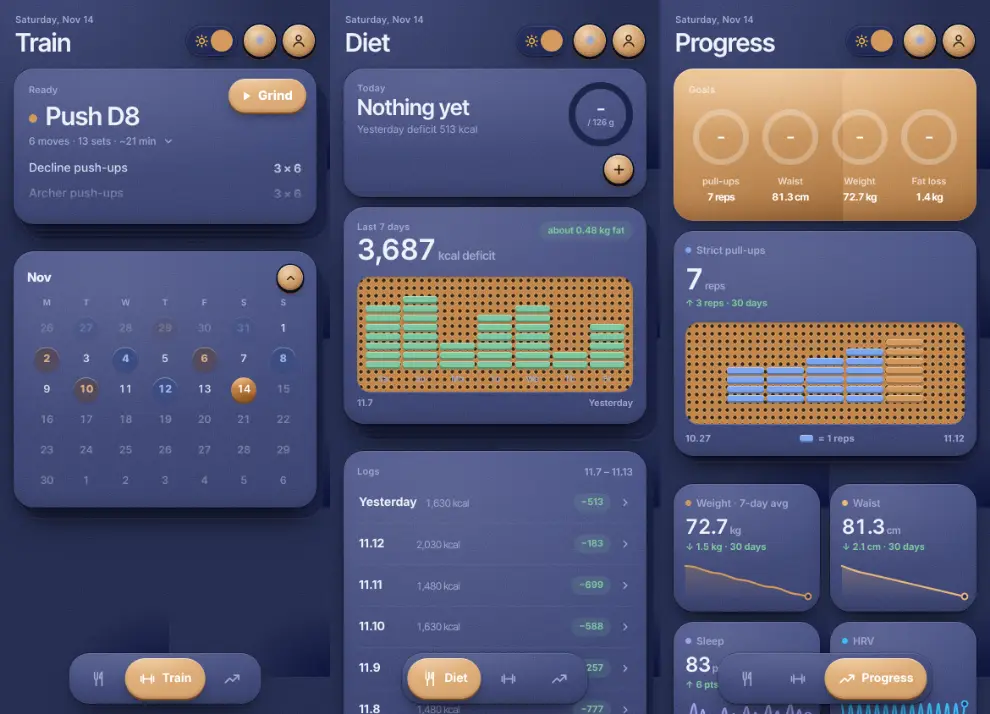
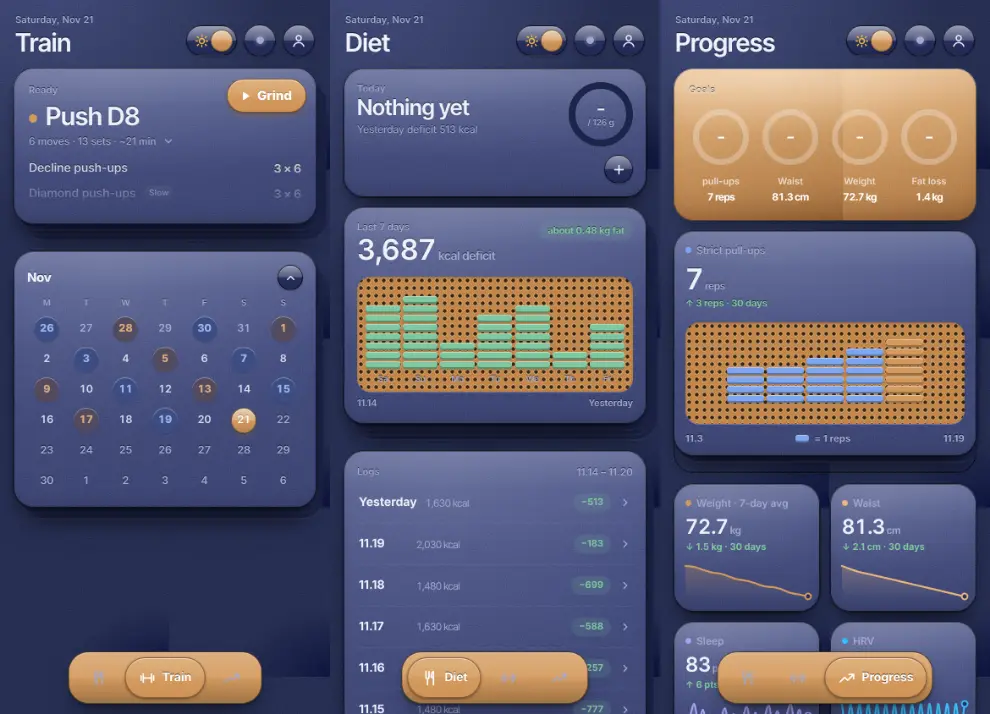
iOS 6 gloss for warm sand, candy plastic, buttery plastic, frosted cobalt, cream enamel, rose ceramic and clay: glossy two-tone keys, sheen over each theme's own cards, iOS 6 switches; theme thumbnails reshot
Claude-Session: https://claude.ai/code/session_015uTD2PhWcYHBYc8Si5P4yd

diff --git a/css/p1.css b/css/p1.css
@@ -1654,3 +1654,46 @@ body.has-mini.mini-big .wrap{padding-bottom:calc(318px + env(safe-area-inset-bot
 /* small round keys keep their look but get a 44 px touch area (WCAG target size) */
 :where(.mini,.fsreset,.f-sets i,.icopt){position:relative}
 :where(.mini,.fsreset,.f-sets i)::after{content:"";position:absolute;inset:min(0px,calc((100% - 44px) / 2));border-radius:inherit}
+/* ---------- iOS 6 gloss: the glassy, lit-from-above look shared by the themes marked gloss:1 in THEMES
+   (warm sand, candy plastic, buttery plastic, frosted cobalt, cream enamel, rose ceramic, clay). Every key and
+   surface keeps its theme's colours but gets the classic sheen: a bright top half cut by a hard line at the
+   middle, a white hairline along the top edge, a darker rim and embossed text. Doubled attribute so it wins
+   over each theme's own material rules ---------- */
+:root[data-gloss]{--g-top:rgba(255,255,255,.62);--g-mid:rgba(255,255,255,.16);--g-edge:rgba(0,0,0,.16);--g-inset:rgba(255,255,255,.92);--g-emb:0 1px 0 rgba(255,255,255,.55);--g-btn:var(--ac);
+  --g-sheen:linear-gradient(180deg,var(--g-top) 0%,var(--g-mid) 49%,rgba(255,255,255,0) 50.5%,rgba(0,0,0,.05) 100%);
+  --g-soft:linear-gradient(180deg,var(--g-top) 0%,rgba(255,255,255,.12) 42%,rgba(255,255,255,0) 100%);
+  --g-key:linear-gradient(180deg,rgba(255,255,255,.55) 0%,rgba(255,255,255,.2) 49%,rgba(255,255,255,0) 50.5%,rgba(0,0,0,.12) 100%)}
+:root[data-gloss][data-mode="dark"]{--g-top:rgba(255,255,255,.18);--g-mid:rgba(255,255,255,.05);--g-edge:rgba(0,0,0,.65);--g-inset:rgba(255,255,255,.16);--g-emb:0 -1px 0 rgba(0,0,0,.6)}
+:root[data-gloss][data-theme="toy"]{--g-btn:var(--red,var(--ac))}
+:root[data-gloss][data-gloss] body{text-shadow:var(--g-emb)}
+/* surfaces: each theme keeps its own card; the sheen lies on top of it as a layer under the content */
+:root[data-gloss][data-gloss] :is(.card,.tile,.dark,.sheet .panel,.mask .sheet,.mini-pl){isolation:isolate}
+:root[data-gloss][data-gloss] :is(.card,.tile,.dark,.sheet .panel,.mask .sheet,.mini-pl)::before{content:"";position:absolute;inset:0;border-radius:inherit;pointer-events:none;z-index:-1;
+  background:linear-gradient(180deg,var(--g-top) 0,var(--g-mid) 46px,rgba(255,255,255,0) 120px);box-shadow:inset 0 1px 0 var(--g-inset),inset 0 0 0 1px var(--g-edge)}
+:root[data-gloss][data-gloss] .dark:not(.hero)::before,:root[data-gloss][data-mode="dark"][data-gloss] .hero::before{background:linear-gradient(180deg,rgba(255,255,255,.2) 0,rgba(255,255,255,.06) 46px,rgba(255,255,255,0) 120px);box-shadow:inset 0 1px 0 rgba(255,255,255,.26),inset 0 0 0 1px rgba(0,0,0,.45)}
+:root[data-gloss][data-gloss] :is(.opt,.thc,.preset,.xitem,.shopc,.badge){background:var(--g-soft),var(--sub);border:1px solid var(--g-edge);box-shadow:inset 0 1px 0 var(--g-inset),0 1px 1px rgba(0,0,0,.08)}
+:root[data-gloss][data-gloss] :is(.opt[aria-pressed="true"],.thc.on,.preset.on){border-color:color-mix(in srgb,var(--g-btn) 70%,#000);box-shadow:inset 0 1px 0 var(--g-inset),0 0 0 2px color-mix(in srgb,var(--g-btn) 45%,transparent)}
+/* accent keys: the classic two-tone glossy button */
+:root[data-gloss][data-gloss] :is(.btn:not(.ghost),.hgo,.pill.ac,.cal .dd.today b,.dd.today b){background:var(--g-key),var(--g-btn);color:var(--on-ac);border:1px solid color-mix(in srgb,var(--g-btn) 62%,#000);
+  box-shadow:inset 0 1px 0 rgba(255,255,255,.6),0 1px 2px rgba(0,0,0,.35),0 6px 12px -6px color-mix(in srgb,var(--g-btn) 70%,#000);text-shadow:0 -1px 0 rgba(0,0,0,.28)}
+:root[data-gloss][data-gloss] .dock .pc{background:var(--g-key),var(--g-btn);border:1px solid color-mix(in srgb,var(--g-btn) 62%,#000);box-shadow:inset 0 1px 0 rgba(255,255,255,.55),0 1px 3px rgba(0,0,0,.45)}
+/* neutral keys: glassy orbs and capsules */
+:root[data-gloss][data-gloss] :is(.circ,.mini,.fsreset,.btn.ghost,.modesw,.f-sets i:not(.cur):not(.dn):not(.add)){background:var(--g-key),var(--card);color:var(--ink);border:1px solid var(--g-edge);
+  box-shadow:inset 0 1px 0 var(--g-inset),0 1px 2px rgba(0,0,0,.3)}
+:root[data-gloss][data-gloss] .modesw .kn{background:var(--g-key),var(--g-btn);border:1px solid color-mix(in srgb,var(--g-btn) 62%,#000);box-shadow:inset 0 1px 0 rgba(255,255,255,.6),0 1px 2px rgba(0,0,0,.4)}
+:root[data-gloss][data-gloss] .f-sets i.cur{background:var(--g-key),var(--g-btn);color:var(--on-ac);border:1px solid color-mix(in srgb,var(--g-btn) 62%,#000);text-shadow:0 -1px 0 rgba(0,0,0,.25)}
+/* the big tick: a domed glass button with a bright crescent on top */
+:root[data-gloss][data-gloss] .tickb:not(.done){background:radial-gradient(ellipse 72% 42% at 50% 20%,rgba(255,255,255,.8),rgba(255,255,255,.12) 70%,rgba(255,255,255,0) 72%),radial-gradient(circle at 50% 80%,color-mix(in srgb,var(--g-btn) 75%,#fff) 0%,var(--g-btn) 55%,color-mix(in srgb,var(--g-btn) 70%,#000) 100%);
+  color:var(--on-ac);border:1px solid color-mix(in srgb,var(--g-btn) 55%,#000);box-shadow:inset 0 -3px 6px rgba(0,0,0,.25),0 2px 3px rgba(0,0,0,.35),0 16px 28px -12px color-mix(in srgb,var(--g-btn) 70%,#000)}
+/* the dock: a glossy tab bar */
+:root[data-gloss][data-gloss] .dock{background:linear-gradient(180deg,rgba(255,255,255,.22) 0%,rgba(255,255,255,.07) 49%,rgba(255,255,255,0) 50.5%,rgba(0,0,0,.25) 100%),var(--dark-solid);border:1px solid rgba(0,0,0,.6);
+  box-shadow:inset 0 1px 0 rgba(255,255,255,.3),0 2px 4px rgba(0,0,0,.35),0 16px 30px -12px rgba(0,0,0,.55)}
+:root[data-gloss][data-gloss] .dock button{text-shadow:0 -1px 0 rgba(0,0,0,.6)}
+/* switches and segmented controls, iOS 6 style: a sunken track, a white glass knob */
+:root[data-gloss][data-gloss] .opt .sw{width:52px;height:30px;border-radius:999px;background:linear-gradient(180deg,#C9C9C9,#F4F4F4);box-shadow:inset 0 2px 3px rgba(0,0,0,.35),0 1px 0 var(--g-inset);border:1px solid rgba(0,0,0,.25);padding:0}
+:root[data-gloss][data-gloss] .opt .sw::before{content:none}
+:root[data-gloss][data-gloss] .opt[aria-checked="true"] .sw{background:var(--g-key),var(--g-btn);box-shadow:inset 0 2px 3px rgba(0,0,0,.3),0 1px 0 var(--g-inset)}
+:root[data-gloss][data-gloss] .opt[aria-checked="true"] .sw::after{transform:translateX(22px)}
+:root[data-gloss][data-gloss] .opt .sw::after{top:1px;left:1px;width:26px;height:26px;border-radius:50%;background:linear-gradient(180deg,#FFFFFF 0%,#F2F2F2 50%,#DADADA 51%,#F6F6F6 100%);border:1px solid rgba(0,0,0,.25);box-shadow:0 1px 2px rgba(0,0,0,.35)}
+:root[data-gloss][data-gloss] .seg{background:var(--g-key),var(--sub);border:1px solid var(--g-edge);box-shadow:inset 0 1px 0 var(--g-inset),0 1px 1px rgba(0,0,0,.1)}
+:root[data-gloss][data-gloss] .seg button[aria-pressed="true"]{background:var(--g-key),var(--g-btn);color:var(--on-ac);box-shadow:inset 0 1px 2px rgba(0,0,0,.35);text-shadow:0 -1px 0 rgba(0,0,0,.28)}

diff --git a/index.html b/index.html
@@ -10,9 +10,9 @@
 <link rel="manifest" href="manifest.json?v=5">
 <link rel="apple-touch-icon" href="apple-touch-icon.png?v=5">
 <link rel="icon" href="icon-192.png?v=5" type="image/png">
-<script src="js/early.js?v=98c77756"></script>
+<script src="js/early.js?v=3b06e9bc"></script>
 <link rel="preload" href="fonts/geist-wght.woff2" as="font" type="font/woff2" crossorigin>
-<link rel="stylesheet" href="css/p1.css?v=98c77756"></head><body>
+<link rel="stylesheet" href="css/p1.css?v=3b06e9bc"></head><body>
 <div class="wrap">
   <header class="top">
     <div><p class="eyebrow" id="today"></p><h1 id="title">训练</h1></div>
@@ -40,21 +40,21 @@
 <div class="toast" id="toast" role="status"></div>
 <span id="ver" hidden>v1.66a</span>
 
-<script defer src="js/hant.js?v=98c77756"></script>
-<script defer src="js/core.js?v=98c77756"></script>
-<script defer src="js/diet.js?v=98c77756"></script>
-<script defer src="js/confetti.js?v=98c77756"></script>
-<script defer src="js/sheetcore.js?v=98c77756"></script>
-<script defer src="js/backupcore.js?v=98c77756"></script>
-<script defer src="js/p1data.js?v=98c77756"></script>
-<script defer src="js/p1fx.js?v=98c77756"></script>
-<script defer src="js/p1stack.js?v=98c77756"></script>
-<script defer src="js/coros.js?v=98c77756"></script>
-<script defer src="js/engine.js?v=98c77756"></script>
-<script defer src="js/scratch.js?v=98c77756"></script>
-<script defer src="js/p1.js?v=98c77756"></script>
-<script defer src="js/p1settings.js?v=98c77756"></script>
-<script defer src="js/p1day.js?v=98c77756"></script>
-<script defer src="js/p1weather.js?v=98c77756"></script>
-<script defer src="js/p1music.js?v=98c77756"></script>
+<script defer src="js/hant.js?v=3b06e9bc"></script>
+<script defer src="js/core.js?v=3b06e9bc"></script>
+<script defer src="js/diet.js?v=3b06e9bc"></script>
+<script defer src="js/confetti.js?v=3b06e9bc"></script>
+<script defer src="js/sheetcore.js?v=3b06e9bc"></script>
+<script defer src="js/backupcore.js?v=3b06e9bc"></script>
+<script defer src="js/p1data.js?v=3b06e9bc"></script>
+<script defer src="js/p1fx.js?v=3b06e9bc"></script>
+<script defer src="js/p1stack.js?v=3b06e9bc"></script>
+<script defer src="js/coros.js?v=3b06e9bc"></script>
+<script defer src="js/engine.js?v=3b06e9bc"></script>
+<script defer src="js/scratch.js?v=3b06e9bc"></script>
+<script defer src="js/p1.js?v=3b06e9bc"></script>
+<script defer src="js/p1settings.js?v=3b06e9bc"></script>
+<script defer src="js/p1day.js?v=3b06e9bc"></script>
+<script defer src="js/p1weather.js?v=3b06e9bc"></script>
+<script defer src="js/p1music.js?v=3b06e9bc"></script>
 </body></html>

diff --git a/docs/catalog/index.html b/docs/catalog/index.html
@@ -71,6 +71,7 @@ ol li{margin:4px 0}
     <li>在 <code>css/p1.css</code> 写 <code>:root[data-theme="新id"]</code> 的变量：<code>--bg --card --line --lit --sub --seg --dark --dark-solid --dark-line --track --ink --muted --ac --on-ac --ac-soft --ac-text --st1 --st2 --push --pull --third --good --bad --sleep --shadow</code>，需要的话加 <code>--disp --num --body</code> 字体。两版的再写一份 <code>[data-mode="dark"]</code>。</li>
     <li>照下面七类逐个覆盖：卡片和面板（<code>.card .tile .hero.dark .dark .sheet .panel .dock</code>）、确认类、开关类、调节类、选择类、导航类、音乐，最后是 <code>.bricks .bks i</code> 和 <code>.knobw .knob</code>。在这页切到新主题，一类一类看。</li>
     <li>材质颗粒用 <code>img/tex-*.webp</code>（新材质先用 SVG 噪声画好，再渲染成图片放进 <code>img/</code>）；不要用 <code>backdrop-filter</code>，面板一律不透明。</li>
+    <li>想要 iOS 6 的玻璃反光质感，在 <code>THEMES</code> 里加 <code>gloss:1</code>（并在 <code>board.html</code> 的列表里登记）：按键上半截亮、中间一道硬分界，卡片顶边一线白色高光，颜色仍是主题自己的。</li>
     <li>要有自己的庆祝和音效，写进 <code>js/p1fx.js</code> 的 <code>THEME_FX</code> 和 <code>SFX_TH</code>。</li>
   </ol>
 </div>

diff --git a/docs/catalog/board.html b/docs/catalog/board.html
@@ -8,7 +8,7 @@
 /* ?t=theme&m=light|dark&only=component-id ; CSS path differs between the repo (../../css) and the published page (css) */
 (function(){var q=new URLSearchParams(location.search),de=document.documentElement,t=q.get("t")||"aurora",m=q.get("m")||"light";
   var FIX={tm4:"dark",skeuo:"light",braun:"light",clay:"light",md:"light",nikon:"dark"};
-  de.dataset.theme=t;de.dataset.mode=FIX[t]||m;if(FIX[t])de.dataset.fixed="";
+  de.dataset.theme=t;de.dataset.mode=FIX[t]||m;if(FIX[t])de.dataset.fixed="";if(["ember","toy","pocket","tm4","braun","dyson","clay"].includes(t))de.dataset.gloss="";
   de.style.setProperty("--lx","30%");de.style.setProperty("--ly","10%");de.style.setProperty("--rot","0deg");de.style.setProperty("--rt",".5");
   document.write('<link rel="stylesheet" href="../../css/p1.css">');window.BASE="../../";
   if(q.get("only"))document.write('<style>.grp,.spec{display:none!important}.spec[data-c="'+q.get("only").replace(/[^\w-]/g,"")+'"]{display:grid!important;margin:0!important}.grp:has(.spec[data-c="'+q.get("only").replace(/[^\w-]/g,"")+'"]){display:block!important;margin:0!important}.grp>h2,.spec>.lab{display:none!important}body{padding:14px!important}</style>');})();

diff --git a/docs/PRODUCT.md b/docs/PRODUCT.md
@@ -62,7 +62,7 @@
 - **主题盲盒：** G 分商店顶上，余额右边是 App 图标那只信封，隔几秒轻轻晃一下。点它问「花 100 G 开一个主题盲盒？」，付了之后弹出刮刮卡（Ovio 的 Scratch to Reveal，`js/scratch.js`），手指刮开涂层，刮过一半剩下的自己掉；下面是随机抽到的、你还没有的主题（色板 + 名字），揭开时放庆祝，下面出现「好」和「换上」。给过的主题不会再给；所有主题都有了，信封变灰，点了只提示已集齐。刮刮卡的样子跟着当前主题：草木、暖砂、喷砂铝、白瓷、粉瓷是 minimal（磨砂涂层），糖果塑料、黏土是 toy（撒糖粒的蓝橡胶，揭开时彩纸飞出），钴蓝、冰蓝拉丝、奶油塑料是 retro（绿色雪花噪点，一格一格擦），拉丝铝、米白烤漆、黑皮压纹是 craft（银色锡箔票，用硬币刮的毛边）。
 - **G 币和 G 分商店：** G 的图标是当下主题的圆形按钮，中间一个金色的 G，金光一呼一吸；商店叫「G 分商店」（谐音「积分」），英文 barGain store。
 - **图标：** 一只纸信封，里面插着一张刮刮卡（银色待刮的涂层），信封左下角压印一个图案。信封的纸色跟着主题走：每个主题、每个明暗版本都有自己颜色的一套（草木亮色是原稿的鼠尾草绿，钴蓝是钴蓝，粉瓷是粉，等等），纸的明暗、纹理、压印都保留。图案由用户在 设定 › 外观 › App 图标 里选：心、星、十字、鸟、猫、狗、兔（存在 `tracktor-p1-icon`）。换主题、切明暗或换图案时，网页的图标、iPhone 图标和 manifest 一起指到对应的那一套（`js/p1.js` 的 `iconApply`；`index.html` 开头的小脚本从 `tracktor-icon` 提前设好，这样安装时拿到的就是选好的）。主屏幕上已经装好的图标不会马上变：安卓一般过一两天自己更新，iPhone 要删掉重新添加（写在面板的「i」里）。图片是 `icons/<主题>-<light|dark>-<图案>.webp`（圆角方块）、`-m.webp`（可遮罩：方块缩小放在同色的深色底上）、`-a.png`（iPhone，180 px 满版）和 `.json`（那一套的 manifest），由 `tools/icons.py` 从 `tools/icon-src/` 的七张原稿染色生成（裁掉原稿的浅色边、重新做圆角）；仓库根目录的 `icon-*.png`、`apple-touch-icon.png` 是默认的草木绿爱心。主题盲盒就是这个图标：刮刮卡先藏在信封里，能开时卡片升出来，停在图标的样子。
-- **主题：** 多数主题有亮、暗两版，顶栏同步按钮左边是明暗开关（点一下切换，长按进主题页，也就是 G 分商店的主题区）；只有一种样子的主题没有这个开关，设定 › 外观里也不显示「跟随手机 / 亮 / 暗」，主题在 G 分商店换。G 分商店的主题列表只显示已经拥有的主题，没解锁的一个都不露，保持神秘；只有主题盲盒右上角一个数字，写着还有几套没解锁，新主题只从盲盒里开。盲盒就是 App 图标本身，只是信封封着：同样的蓝底、颗粒、玫红信封和左下角的心，卡片和 G 币藏在里面，上盖合着：G 不够 100 或主题都集齐了，点它只抖一下、不打开；能开时点它，先轻轻一按，上盖沿折痕往后翻开、内侧翻到卡片后面，卡片带着 G 币从信封里升出来、回弹停住，正好是 App 图标，接着进刮刮卡（面板没有标题）；能开时它隔几秒轻轻晃一下。刮刮卡穿的是当前主题的颜色和质感（卡片、颗粒、凹槽、强调色，Ovio 的 Scratch to Reveal 只是底子），没有多余的字，只有一条进度线；刮开不到一半，底下只是一团模糊，什么也看不出，这时关掉就算没开盒、不扣 G；刮过一半才扣 100 G、收进主题，奖品从模糊里慢慢清楚：那套主题三个主页面（训练、饮食、进展）的缩略图叠成一小摞（亮暗两版的是六张，名字后面一个彩色日月图标（黄太阳 | 紫月亮）），点它弹出一个不超过半个屏幕的面板，左右划或点一下一张张看。下面两个键：「收下」和「使用」。主题列表里每个主题也用自己三页的缩略图一小摞来认（当前明暗那一版），亮暗两版的带日月图标，不再用色块条。缩略图是 `img/th/<主题>-<light|dark>.webp`（三页并排），用 `tools/thumbs.js` 拿假数据在无头浏览器里截，一律是英文界面，三种语言共用一套。草木 · 极光免费（亮色石膏灰配柔和的鼠尾草绿，暗色深海黑配极光青）；暖砂 · 流金 60 G（亮色燕麦石灰配陶土橙，暗色黑曜石配落日流金）；玩具 90 G：照开源的 Ovio UI「toy」风格（MIT），点阵底板、塑料卡片带唇边、红蓝黄绿原色按键按下会沉下去、缺口柱子是一块块积木、日历上练过的日子是彩色塑料钉、目标是一块蓝色塑料板、数字用等宽字，打勾是红色街机按钮，彩带换成原色方块和圆点；亮色是奶油色塑料配红蓝黄绿，暗色是巨型机器人配色的夜间玩具：深紫底板和紫色塑料卡片，荧光青柠绿是主色，橙色是第二色（缺口 / 盈余、好 / 坏也是绿 / 橙），目标是一块紫色塑料板。立体感：顶栏的同步按钮照 Ovio 的 pull to sync 做成凹槽里的塑料滑块（拖到最右松手同步、弹簧弹回，轻点也同步；中间小灯平时黄、同步中闪、完成绿），头像是圆鼓鼓的蓝色塑料按钮；卡路里柱子照 Ovio 的 star history 摞成 8px 的小积木，每块底下一道深色唇边、顶上一线高光；卡片有亮的上沿和 7px 唇边，厚度更明显，图表的线是带投影的塑料管，目标圈有投影。声音也换成玩具声：打勾「啵」、做完一个动作木琴琶音、休息结束布谷鸟、练完玩具小号、点按塑料咔哒，烟花是卡通「砰」加一串弹珠声。亮色版的颜色都压低了饱和度，不刺眼，大约是一周练够三天赚的。另有四套只有一种样子的触感主题：钴蓝磨砂 120 G（暗：蓝色阳极铝面板，卡片带斜面高光，按钮是圆柱键帽，底板和卡路里柱子是点阵屏，线和指示灯有白蓝辉光，打勾是高圆柱旋钮）；拉丝铝 · 霓虹 120 G（亮：拉丝铝卡片配顶光，按钮是黑色阳极件上的青色霓虹字，小按钮是锥纹金属旋钮，打勾是黑表圈白表盘，目标板是黑色，柱子是喇叭网孔、今天那根亮青色）；米白烤漆 90 G（亮：米白机身，方键、凹碟、柿橙圆点，底栏是黑色键槽里的米白方键，顶栏按钮是黑座圆顶、头像是橄榄绿，打勾是滚花拨盘）；黏土 · 薄荷 90 G（亮：网格纸底，白色积木卡片带往左下的斜投影，按钮是薄荷积木，目标板是薄荷色，打勾做完变成发光的薄荷圆环）。这四套的光影按同一套做法：每套一个固定光源方向；每种材质有自己的颗粒（塑料细颗粒、拉丝铝的单向拉丝、黏土的哑光粉感）；卡片阴影分接触阴影、中距和远距三层，加上边缘高光和底部暗部；底板有顶光光池和四周暗角；高光跟着手机倾斜移动，金属旋钮的反光和滚花拨盘跟着转，手拿稳后慢慢回到原位（电脑上跟着鼠标）。系统开了「减少动态效果」就不动。玩具主题保持 Ovio 原版的卡通效果，不开光追（试过让按键侧面跟着倾斜，不自然又拖慢，去掉了）。每套主题的拉丁字母和数字用自己的字体（都放在网站里，离线也能用）：拉丝铝 Michroma（宽体仪表字，标题大写）、钴蓝 Doto（点阵字，带辉光；中文配 Fusion Pixel 像素字的子集，改名 bG Pixel SC，只含 App 用到的字和 3755 个常用字，标题、动作名、单位和数字一样是像素的）、米白 Inter Tight（瑞士风）、黏土 Nunito（圆润）、暖砂 Fraunces（温润的衬线），草木 · 极光用 Geist、标题和数字字重更轻、小标题大写加字距，偏冷淡。开关和分段按钮也各按主题做成不同的硬件：拉丝铝是凹槽里的金属球拨杆和走带键排、钴蓝是推子和键帽排、米白是黑槽里的米白拨杆和黑框方键排（选中的键下面一个柿橙点）、黏土是积木拨块。奶油塑料 120 G（亮、暗两版，跟着倾斜打光）：油润的半哑光塑料机身，亮色是暖灰机身配奶油色和藕粉色按键，暗色是黑色机身配橙色和朱红按键；训练卡和目标卡是嵌在边框里的点阵屏（标题和专注页的大数字用点阵字），按钮是带凹碟的方键，圆钮是旋钮，开关是小方槽里的圆按钮（打开时亮红灯），柱子是喇叭网孔，日历今天是红色指示灯。另有五套材质主题：冰蓝拉丝 120 G（固定亮色：冰蓝拉丝阳极铝机身，训练卡、目标卡和积木图是嵌在黑框里的绿灰色段码液晶，数字用液晶等宽字，小键是黑色橡胶键，开练是橙色播放键，打勾是银色拉丝转盘套橙圈，图标按钮是金属钮）；黑皮压纹 120 G（固定暗色：真的有凹凸的黑色压纹蒙皮，训练卡左边一道红色饰条，按钮是镁合金件，开练是红色，旋钮和小按钮是滚花拨盘，打勾是带银圈的快门键）；粉瓷 · 铜蓝 120 G（亮、暗两版，照 Dyson 两款吹风机的配色：亮是奶白陶瓷机身配玫瑰金属色风筒、淡紫灰滤网和旋纹按钮，底色是柔和的粉；暗是普鲁士蓝哑光机身配金铜风筒和铜色滤网、铜色旋纹按钮；两版共有：细颗粒的阳极氧化质感，按键和目标板是金属色，小圆钮是带深色边、微微凸起看得到厚度的旋纹金属钮，积木图和拨轮用穿孔滤网的纹样，打勾像正对着的风嘴，中间深色风口外一圈透明环；跟着光追有高光）；钴蓝的按钮和卡片是同一种平面斜边材质，不再是圆鼓鼓的键帽；喷砂铝 120 G（亮、暗两版：银色 / 深空灰的喷砂铝，钻石切边高光，按钮是黑色键帽，训练卡和目标卡像黑色屏幕嵌在边框里，开练是蓝色，打勾是带金属圈的指纹键）；白瓷 120 G（亮、暗两版：没有描边的实心瓷块，背后是柔和的彩色光斑，顶边一线高光、底边透光，下面一道透明的厚度，有一条亮的反光带，选中项是经典的蓝色渐变高亮，目标卡是蓝色背光屏，打勾是点按转盘，中间按钮做完变蓝）。积木柱状图：饮食页的缺口 / 盈余柱子是一块块积木摞成的（这张卡在可以左右划走的卡堆里，所以积木不随手指弹）。进展页的主项是一个两张牌的毛玻璃卡堆，字体和别的数据卡一样（小标签、大数字、涨跌）：第一张是主项最近 12 次的单组最好成绩，第二张是每周总数（训练日、加在训练里的、休息日记的都算，从第一个有记录的周开始、最多 12 周，大数字是总数，下面是本周）。两张都用积木：一块积木是一个整数（1、2、5、10…个，让最高那列不超过 9 块），图下写着「▬ = 5 个」，最高的一列换第二种颜色。画出来时积木一块块掉下来；手指在积木上划过，经过的那一列弹起、轻振一下，右上角浮出那一列的日期和数；积木区域里手指只读数、不翻牌，翻牌在卡片上半部分划，或点后面露出的那张。整个卡堆和别的数据卡一样，长按可以拖动或隐藏，点一下打开完整曲线。旋钮：图表的时间范围（14 天 / 30 天 / 90 天 / 全部）和设定里的语言（简中 / 繁中 / Eng）都是旋钮，标签排在上方的弧线上，可以转、点旋钮跳下一档、或点标签；每套主题的旋钮和积木都是自己的材质。设定 › 外观 › 特效：光追（开关：开是轻微的效果，高光跟着倾斜慢慢移动、每秒最多更新十来次；关掉就不跟倾斜）、天气、两天没练就落灰（两天没有训练或加练，画面开始落灰、泛黄、褪色，分三档：2–4 天、5–7 天、8 天起，四周的做旧斑驳（`img/grunge-1..3.webp`，用噪声画的，不是网上的图）一档比一档往里蔓延，裂纹和划痕也更多；暗色下是浅色的灰；一打勾就从左往右擦干净）、庆祝效果。庆祝效果跟着主题走（每套主题都有自己的，不再用通用烟花；不管东西轻重，每一片发射前都按它自己的重力和阻力算好力度，至少飞到屏幕上方三分之一），声音也换成一整套：草木撒叶子（3–8 月是深浅不一的绿叶，9–2 月是红橙黄褐的秋叶），配玻璃风铃；暖砂飘金箔，配温暖的铃声；粉瓷 · 铜蓝飘小花朵和花瓣（亮版粉和奶白，暗版金铜和奶白带一点淡蓝），先有一阵风声；喷砂铝和白瓷是一闪一闪的四角星光，配一声干净的「叮」；冰蓝拉丝撒一把小 MD 碟（半透明彩色外壳，能看到里面的光盘和滑盖，标签上是你最近在 Spotify 听过的歌的封面，没连 Spotify 就是白标签），落地塑料咔哒声；黑皮压纹是快门一闪、一圈六角光圈往外扩，配机械快门声；玩具撒带凸点的积木块（落地弹几下，倒积木的哗啦声）；钴蓝磨砂是整屏电子点阵爆闪（从爆点扩散的光环和随机闪点，大庆祝先白闪一下，配合成器琶音）；拉丝铝是青色霓虹冲击环加撒落的铬钢珠（落地会弹，叮当的金属声）；米白烤漆是翻转飘落的柿橙 / 米白 / 橄榄色圆片（叮咚两声的钟音）；黏土是落地会压扁的软泥团（噗噗声）；奶油塑料是一格一格落的 8-bit 像素方块（芯片音乐）；草木和暖砂保留烟花。打勾、做完一个动作、休息结束、练完、点按的音效也按主题换。页面标题会自动缩小，不碰顶栏按钮。暖砂 · 流金的底板加了纸张颗粒，卡片是暖色多层阴影、圆角更大。买过的记在 `settings.buys`，余额 = 赚的 − 花的。在「备份进度」里导入一个 G 充值文件（内容是 `PP2g:{"id":…,"g":数量}`）只会加 G、别的数据都不动，同一个文件只算一次（在 `settings.buys` 里记一条负的花费）。亮色下训练卡也是浅色卡片。
+- **主题：** 多数主题有亮、暗两版，顶栏同步按钮左边是明暗开关（点一下切换，长按进主题页，也就是 G 分商店的主题区）；只有一种样子的主题没有这个开关，设定 › 外观里也不显示「跟随手机 / 亮 / 暗」，主题在 G 分商店换。G 分商店的主题列表只显示已经拥有的主题，没解锁的一个都不露，保持神秘；只有主题盲盒右上角一个数字，写着还有几套没解锁，新主题只从盲盒里开。盲盒就是 App 图标本身，只是信封封着：同样的蓝底、颗粒、玫红信封和左下角的心，卡片和 G 币藏在里面，上盖合着：G 不够 100 或主题都集齐了，点它只抖一下、不打开；能开时点它，先轻轻一按，上盖沿折痕往后翻开、内侧翻到卡片后面，卡片带着 G 币从信封里升出来、回弹停住，正好是 App 图标，接着进刮刮卡（面板没有标题）；能开时它隔几秒轻轻晃一下。刮刮卡穿的是当前主题的颜色和质感（卡片、颗粒、凹槽、强调色，Ovio 的 Scratch to Reveal 只是底子），没有多余的字，只有一条进度线；刮开不到一半，底下只是一团模糊，什么也看不出，这时关掉就算没开盒、不扣 G；刮过一半才扣 100 G、收进主题，奖品从模糊里慢慢清楚：那套主题三个主页面（训练、饮食、进展）的缩略图叠成一小摞（亮暗两版的是六张，名字后面一个彩色日月图标（黄太阳 | 紫月亮）），点它弹出一个不超过半个屏幕的面板，左右划或点一下一张张看。下面两个键：「收下」和「使用」。主题列表里每个主题也用自己三页的缩略图一小摞来认（当前明暗那一版），亮暗两版的带日月图标，不再用色块条。缩略图是 `img/th/<主题>-<light|dark>.webp`（三页并排），用 `tools/thumbs.js` 拿假数据在无头浏览器里截，一律是英文界面，三种语言共用一套。草木 · 极光免费（亮色石膏灰配柔和的鼠尾草绿，暗色深海黑配极光青）；暖砂 · 流金 60 G（亮色燕麦石灰配陶土橙，暗色黑曜石配落日流金）；玩具 90 G：照开源的 Ovio UI「toy」风格（MIT），点阵底板、塑料卡片带唇边、红蓝黄绿原色按键按下会沉下去、缺口柱子是一块块积木、日历上练过的日子是彩色塑料钉、目标是一块蓝色塑料板、数字用等宽字，打勾是红色街机按钮，彩带换成原色方块和圆点；亮色是奶油色塑料配红蓝黄绿，暗色是巨型机器人配色的夜间玩具：深紫底板和紫色塑料卡片，荧光青柠绿是主色，橙色是第二色（缺口 / 盈余、好 / 坏也是绿 / 橙），目标是一块紫色塑料板。立体感：顶栏的同步按钮照 Ovio 的 pull to sync 做成凹槽里的塑料滑块（拖到最右松手同步、弹簧弹回，轻点也同步；中间小灯平时黄、同步中闪、完成绿），头像是圆鼓鼓的蓝色塑料按钮；卡路里柱子照 Ovio 的 star history 摞成 8px 的小积木，每块底下一道深色唇边、顶上一线高光；卡片有亮的上沿和 7px 唇边，厚度更明显，图表的线是带投影的塑料管，目标圈有投影。声音也换成玩具声：打勾「啵」、做完一个动作木琴琶音、休息结束布谷鸟、练完玩具小号、点按塑料咔哒，烟花是卡通「砰」加一串弹珠声。亮色版的颜色都压低了饱和度，不刺眼，大约是一周练够三天赚的。另有四套只有一种样子的触感主题：钴蓝磨砂 120 G（暗：蓝色阳极铝面板，卡片带斜面高光，按钮是圆柱键帽，底板和卡路里柱子是点阵屏，线和指示灯有白蓝辉光，打勾是高圆柱旋钮）；拉丝铝 · 霓虹 120 G（亮：拉丝铝卡片配顶光，按钮是黑色阳极件上的青色霓虹字，小按钮是锥纹金属旋钮，打勾是黑表圈白表盘，目标板是黑色，柱子是喇叭网孔、今天那根亮青色）；米白烤漆 90 G（亮：米白机身，方键、凹碟、柿橙圆点，底栏是黑色键槽里的米白方键，顶栏按钮是黑座圆顶、头像是橄榄绿，打勾是滚花拨盘）；黏土 · 薄荷 90 G（亮：网格纸底，白色积木卡片带往左下的斜投影，按钮是薄荷积木，目标板是薄荷色，打勾做完变成发光的薄荷圆环）。这四套的光影按同一套做法：每套一个固定光源方向；每种材质有自己的颗粒（塑料细颗粒、拉丝铝的单向拉丝、黏土的哑光粉感）；卡片阴影分接触阴影、中距和远距三层，加上边缘高光和底部暗部；底板有顶光光池和四周暗角；高光跟着手机倾斜移动，金属旋钮的反光和滚花拨盘跟着转，手拿稳后慢慢回到原位（电脑上跟着鼠标）。系统开了「减少动态效果」就不动。玩具主题保持 Ovio 原版的卡通效果，不开光追（试过让按键侧面跟着倾斜，不自然又拖慢，去掉了）。每套主题的拉丁字母和数字用自己的字体（都放在网站里，离线也能用）：拉丝铝 Michroma（宽体仪表字，标题大写）、钴蓝 Doto（点阵字，带辉光；中文配 Fusion Pixel 像素字的子集，改名 bG Pixel SC，只含 App 用到的字和 3755 个常用字，标题、动作名、单位和数字一样是像素的）、米白 Inter Tight（瑞士风）、黏土 Nunito（圆润）、暖砂 Fraunces（温润的衬线），草木 · 极光用 Geist、标题和数字字重更轻、小标题大写加字距，偏冷淡。开关和分段按钮也各按主题做成不同的硬件：拉丝铝是凹槽里的金属球拨杆和走带键排、钴蓝是推子和键帽排、米白是黑槽里的米白拨杆和黑框方键排（选中的键下面一个柿橙点）、黏土是积木拨块。奶油塑料 120 G（亮、暗两版，跟着倾斜打光）：油润的半哑光塑料机身，亮色是暖灰机身配奶油色和藕粉色按键，暗色是黑色机身配橙色和朱红按键；训练卡和目标卡是嵌在边框里的点阵屏（标题和专注页的大数字用点阵字），按钮是带凹碟的方键，圆钮是旋钮，开关是小方槽里的圆按钮（打开时亮红灯），柱子是喇叭网孔，日历今天是红色指示灯。另有五套材质主题：冰蓝拉丝 120 G（固定亮色：冰蓝拉丝阳极铝机身，训练卡、目标卡和积木图是嵌在黑框里的绿灰色段码液晶，数字用液晶等宽字，小键是黑色橡胶键，开练是橙色播放键，打勾是银色拉丝转盘套橙圈，图标按钮是金属钮）；黑皮压纹 120 G（固定暗色：真的有凹凸的黑色压纹蒙皮，训练卡左边一道红色饰条，按钮是镁合金件，开练是红色，旋钮和小按钮是滚花拨盘，打勾是带银圈的快门键）；粉瓷 · 铜蓝 120 G（亮、暗两版，照 Dyson 两款吹风机的配色：亮是奶白陶瓷机身配玫瑰金属色风筒、淡紫灰滤网和旋纹按钮，底色是柔和的粉；暗是普鲁士蓝哑光机身配金铜风筒和铜色滤网、铜色旋纹按钮；两版共有：细颗粒的阳极氧化质感，按键和目标板是金属色，小圆钮是带深色边、微微凸起看得到厚度的旋纹金属钮，积木图和拨轮用穿孔滤网的纹样，打勾像正对着的风嘴，中间深色风口外一圈透明环；跟着光追有高光）；钴蓝的按钮和卡片是同一种平面斜边材质，不再是圆鼓鼓的键帽；喷砂铝 120 G（亮、暗两版：银色 / 深空灰的喷砂铝，钻石切边高光，按钮是黑色键帽，训练卡和目标卡像黑色屏幕嵌在边框里，开练是蓝色，打勾是带金属圈的指纹键）；白瓷 120 G（亮、暗两版：没有描边的实心瓷块，背后是柔和的彩色光斑，顶边一线高光、底边透光，下面一道透明的厚度，有一条亮的反光带，选中项是经典的蓝色渐变高亮，目标卡是蓝色背光屏，打勾是点按转盘，中间按钮做完变蓝）。积木柱状图：饮食页的缺口 / 盈余柱子是一块块积木摞成的（这张卡在可以左右划走的卡堆里，所以积木不随手指弹）。进展页的主项是一个两张牌的毛玻璃卡堆，字体和别的数据卡一样（小标签、大数字、涨跌）：第一张是主项最近 12 次的单组最好成绩，第二张是每周总数（训练日、加在训练里的、休息日记的都算，从第一个有记录的周开始、最多 12 周，大数字是总数，下面是本周）。两张都用积木：一块积木是一个整数（1、2、5、10…个，让最高那列不超过 9 块），图下写着「▬ = 5 个」，最高的一列换第二种颜色。画出来时积木一块块掉下来；手指在积木上划过，经过的那一列弹起、轻振一下，右上角浮出那一列的日期和数；积木区域里手指只读数、不翻牌，翻牌在卡片上半部分划，或点后面露出的那张。整个卡堆和别的数据卡一样，长按可以拖动或隐藏，点一下打开完整曲线。旋钮：图表的时间范围（14 天 / 30 天 / 90 天 / 全部）和设定里的语言（简中 / 繁中 / Eng）都是旋钮，标签排在上方的弧线上，可以转、点旋钮跳下一档、或点标签；每套主题的旋钮和积木都是自己的材质。设定 › 外观 › 特效：光追（开关：开是轻微的效果，高光跟着倾斜慢慢移动、每秒最多更新十来次；关掉就不跟倾斜）、天气、两天没练就落灰（两天没有训练或加练，画面开始落灰、泛黄、褪色，分三档：2–4 天、5–7 天、8 天起，四周的做旧斑驳（`img/grunge-1..3.webp`，用噪声画的，不是网上的图）一档比一档往里蔓延，裂纹和划痕也更多；暗色下是浅色的灰；一打勾就从左往右擦干净）、庆祝效果。庆祝效果跟着主题走（每套主题都有自己的，不再用通用烟花；不管东西轻重，每一片发射前都按它自己的重力和阻力算好力度，至少飞到屏幕上方三分之一），声音也换成一整套：草木撒叶子（3–8 月是深浅不一的绿叶，9–2 月是红橙黄褐的秋叶），配玻璃风铃；暖砂飘金箔，配温暖的铃声；粉瓷 · 铜蓝飘小花朵和花瓣（亮版粉和奶白，暗版金铜和奶白带一点淡蓝），先有一阵风声；喷砂铝和白瓷是一闪一闪的四角星光，配一声干净的「叮」；冰蓝拉丝撒一把小 MD 碟（半透明彩色外壳，能看到里面的光盘和滑盖，标签上是你最近在 Spotify 听过的歌的封面，没连 Spotify 就是白标签），落地塑料咔哒声；黑皮压纹是快门一闪、一圈六角光圈往外扩，配机械快门声；玩具撒带凸点的积木块（落地弹几下，倒积木的哗啦声）；钴蓝磨砂是整屏电子点阵爆闪（从爆点扩散的光环和随机闪点，大庆祝先白闪一下，配合成器琶音）；拉丝铝是青色霓虹冲击环加撒落的铬钢珠（落地会弹，叮当的金属声）；米白烤漆是翻转飘落的柿橙 / 米白 / 橄榄色圆片（叮咚两声的钟音）；黏土是落地会压扁的软泥团（噗噗声）；奶油塑料是一格一格落的 8-bit 像素方块（芯片音乐）；草木和暖砂保留烟花。打勾、做完一个动作、休息结束、练完、点按的音效也按主题换。页面标题会自动缩小，不碰顶栏按钮。暖砂 · 流金的底板加了纸张颗粒，卡片是暖色多层阴影、圆角更大。买过的记在 `settings.buys`，余额 = 赚的 − 花的。在「备份进度」里导入一个 G 充值文件（内容是 `PP2g:{"id":…,"g":数量}`）只会加 G、别的数据都不动，同一个文件只算一次（在 `settings.buys` 里记一条负的花费）。亮色下训练卡也是浅色卡片。 暖砂 · 流金、糖果塑料、奶油塑料、钴蓝磨砂、米白烤漆、粉瓷 · 铜蓝、黏土 · 薄荷这七套（`THEMES` 里的 `gloss:1`，页面上是 `html[data-gloss]`）统一加上经典 iOS 6 的玻璃反光质感，颜色仍是各自的：按键、开练、打勾、底栏选中、今天的日期是两段式高光（上半截亮、中间一道硬分界、下沿暗一点、深色描边、字压一道阴影）；卡片、面板、播放器在自己的底色上叠一层顶部渐弱的反光和一线白色高光边；小圆钮和设定行是玻璃质的浅色胶囊；开关统一成 iOS 6 的样子（凹下去的槽、白色玻璃圆钮）；分段按钮选中的那段是强调色玻璃；文字带一道压印阴影（亮色往下白、暗色往上黑）。
 - **样子：** 和 SplitFlow 同一套做法：亮色是石膏灰配荧光绿，暗色是深海黑配极光青，背景一团淡光；大圆角卡片、极淡边框、上沿高光；数字用 Geist；一个强调色，字重三档；所有详情和编辑都用同一种底部弹出面板，往下拖能关；一组同类的卡片（训练日、日历的周和月、饮食记录）用同一种毛玻璃 swipe stack（`js/p1stack.js`）：后面的牌是整张卡、整齐地一张比一张往右下错开一小步、颜色略深、底边一道细硬阴影，像一摞有厚度的牌（手指按上去时整摞再拉开一点），最多露三张，只要还有别的牌就露出来；划动时下面一张是毛玻璃，划走上面一张后 0.3 秒内变清晰，手指往右是往前的时间；动效用同一条回弹曲线，系统要求减少动态时全部关掉。语言：简体中文、繁体中文、英文，头像 › 语言切换，当场换，设定面板留着。繁体是把简体界面逐字换成台湾用字（`js/hant.js`，对照表用 OpenCC 生成，只收界面用到的字），弹窗和确认框也换。
 
 ## 现在的样子

diff --git a/CLAUDE.md b/CLAUDE.md
@@ -42,6 +42,7 @@
 - G 币图标 `COIN`（`js/p1.js`）是当下主题的 `.circ` 圆钮加金色 G、呼吸发光；商店叫「G 分商店 / barGain store」。
 - G（积分，Grind）从记录现算（`js/p1data.js` 的 `coinBadges`），不另存；余额 = 赚的 − `settings.buys` 里花掉的。训练计划除了推拉二分（`cyclist`）、自由练、自定义，其他预设要 200 G 解锁（`js/p1settings.js` 的 `planOwned`，买的记 `plan:<id>`）。主题盲盒（`js/p1.js` 的 `openBox`，100 G）随机给一个还没有的主题，记在 `settings.buys`（带 `box:1`），都集齐了就不能开。
 - App 图标：纸信封加刮刮卡，每个主题的每个明暗版本一种纸色、七种图案任选（`tracktor-p1-icon`），文件在 `icons/`（`<主题>-<light|dark>-<图案>.webp`、`-m.webp`、`-a.png`、`.json`），由 `python3 tools/icons.py` 从 `tools/icon-src/` 的原稿染色生成（要 Pillow 和 numpy，跑十几分钟）；加新主题要在脚本的 `LOOKS` 里加它的纸色再跑一遍，图片重做后把 `js/p1.js` 的 `ICON_V` 和 `index.html` 开头小脚本里的 `?v=` 一起加一。`js/p1.js` 的 `iconApply` 负责把网页图标和 manifest 指到当前那一套。
+- iOS 6 玻璃反光：`THEMES` 里带 `gloss:1` 的主题（现在是 ember、toy、pocket、tm4、braun、dyson、clay）由 `applyMode` 加上 `html[data-gloss]`，`css/p1.css` 末尾那一段统一给按键、卡片、开关、底栏加反光，用双写的属性选择器压过各主题自己的材质规则；卡片的反光是 `::before` 叠层（`isolation:isolate`），不替换主题自己的底色。组件目录 `board.html` 里也要登记这份名单。
 - 主题缩略图：`img/th/<id>-<light|dark>.webp`，训练、饮食、进展三页并排，开本地服务器后 `node tools/thumbs.js` 用假数据重截（英文界面，三种语言共用）。新主题或主页面样子明显变了就重截，并把 `js/p1.js` 的 `TH_V` 加一（图片不在 `sw.js` 预缓存列表里，用到时才缓存，换地址才会更新）。
 - 主题（`js/p1.js` 的 `THEMES`，`css/p1.css` 里 `:root[data-theme=…]`，亮暗两版靠 `data-mode`）：一般要有亮、暗两版；只有一种样子的主题在 `THEMES` 里写 `fix:"light"|"dark"`，这时 `html[data-fixed]` 藏掉明暗开关和设定里的明暗选项（顶栏换成调色盘 `#themeBtn`，进主题列表），手机倾斜写进 `--lx`/`--ly`/`--rot`（`js/p1.js`），触感主题和奶油塑料（`THEMES` 里 `lit`）的高光和金属反光用它们；玩具主题不接光追。主题字体放 `fonts/`（许可见 `fonts/THEMES-OFL.txt`；拉丁字体没有中文，点阵主题的中文用 `fonts/bg-pixel-sc.woff2`（Fusion Pixel 的子集，按许可改名，`unicode-range` 只管中文），界面里加了新汉字要重新切子集），材质颗粒（拉丝、细颗粒、黏土粉、压纹皮、喷砂）是 `img/tex-*.webp`（从 SVG 噪声预先渲染，比现场算快；新材质也这样做），标题和大数字用 `--disp`，小数字用 `--num`。草木 · 极光免费，其他用 G 换。顶栏的明暗开关点一下切换，长按进主题页。
 - 训练计划：`settings.plan`（`js/engine.js` 的 `PRESETS`/`setPlan`）选 1–3 种训练日，内部类型固定是 `push`、`pull`、`third`（名字由计划定，`js/core.js` 的 `dayName`/`LAB`）；进度文件里训练的键前缀是 u、l、t。预设只是数据，以后用户写的计划也照这个格式。自由练 `id:"free"`（`js/engine.js` 的 `freeBase`/`freeLog`/`freePattern`）：没选过计划、也没练过正式训练的新用户默认是它；建议从最近 3 周的训练和加练里长出来（散步骑行这类不排），按部位多久没练排，每次至少 2 个动作 5 组；练法稳定后提示存成自定义计划。自定义计划 `id:"custom"`（`setCustomPlan`，面板 `openCustom`）：只用练过的动作（`engMoves`），每个动作从自己的上次记录接着练；自定义计划和自由练下引擎不换动作（`engCustom`）；一种训练日里找不到某动作的历史时，到所有训练和加练里找（`engMoveHist`）。
